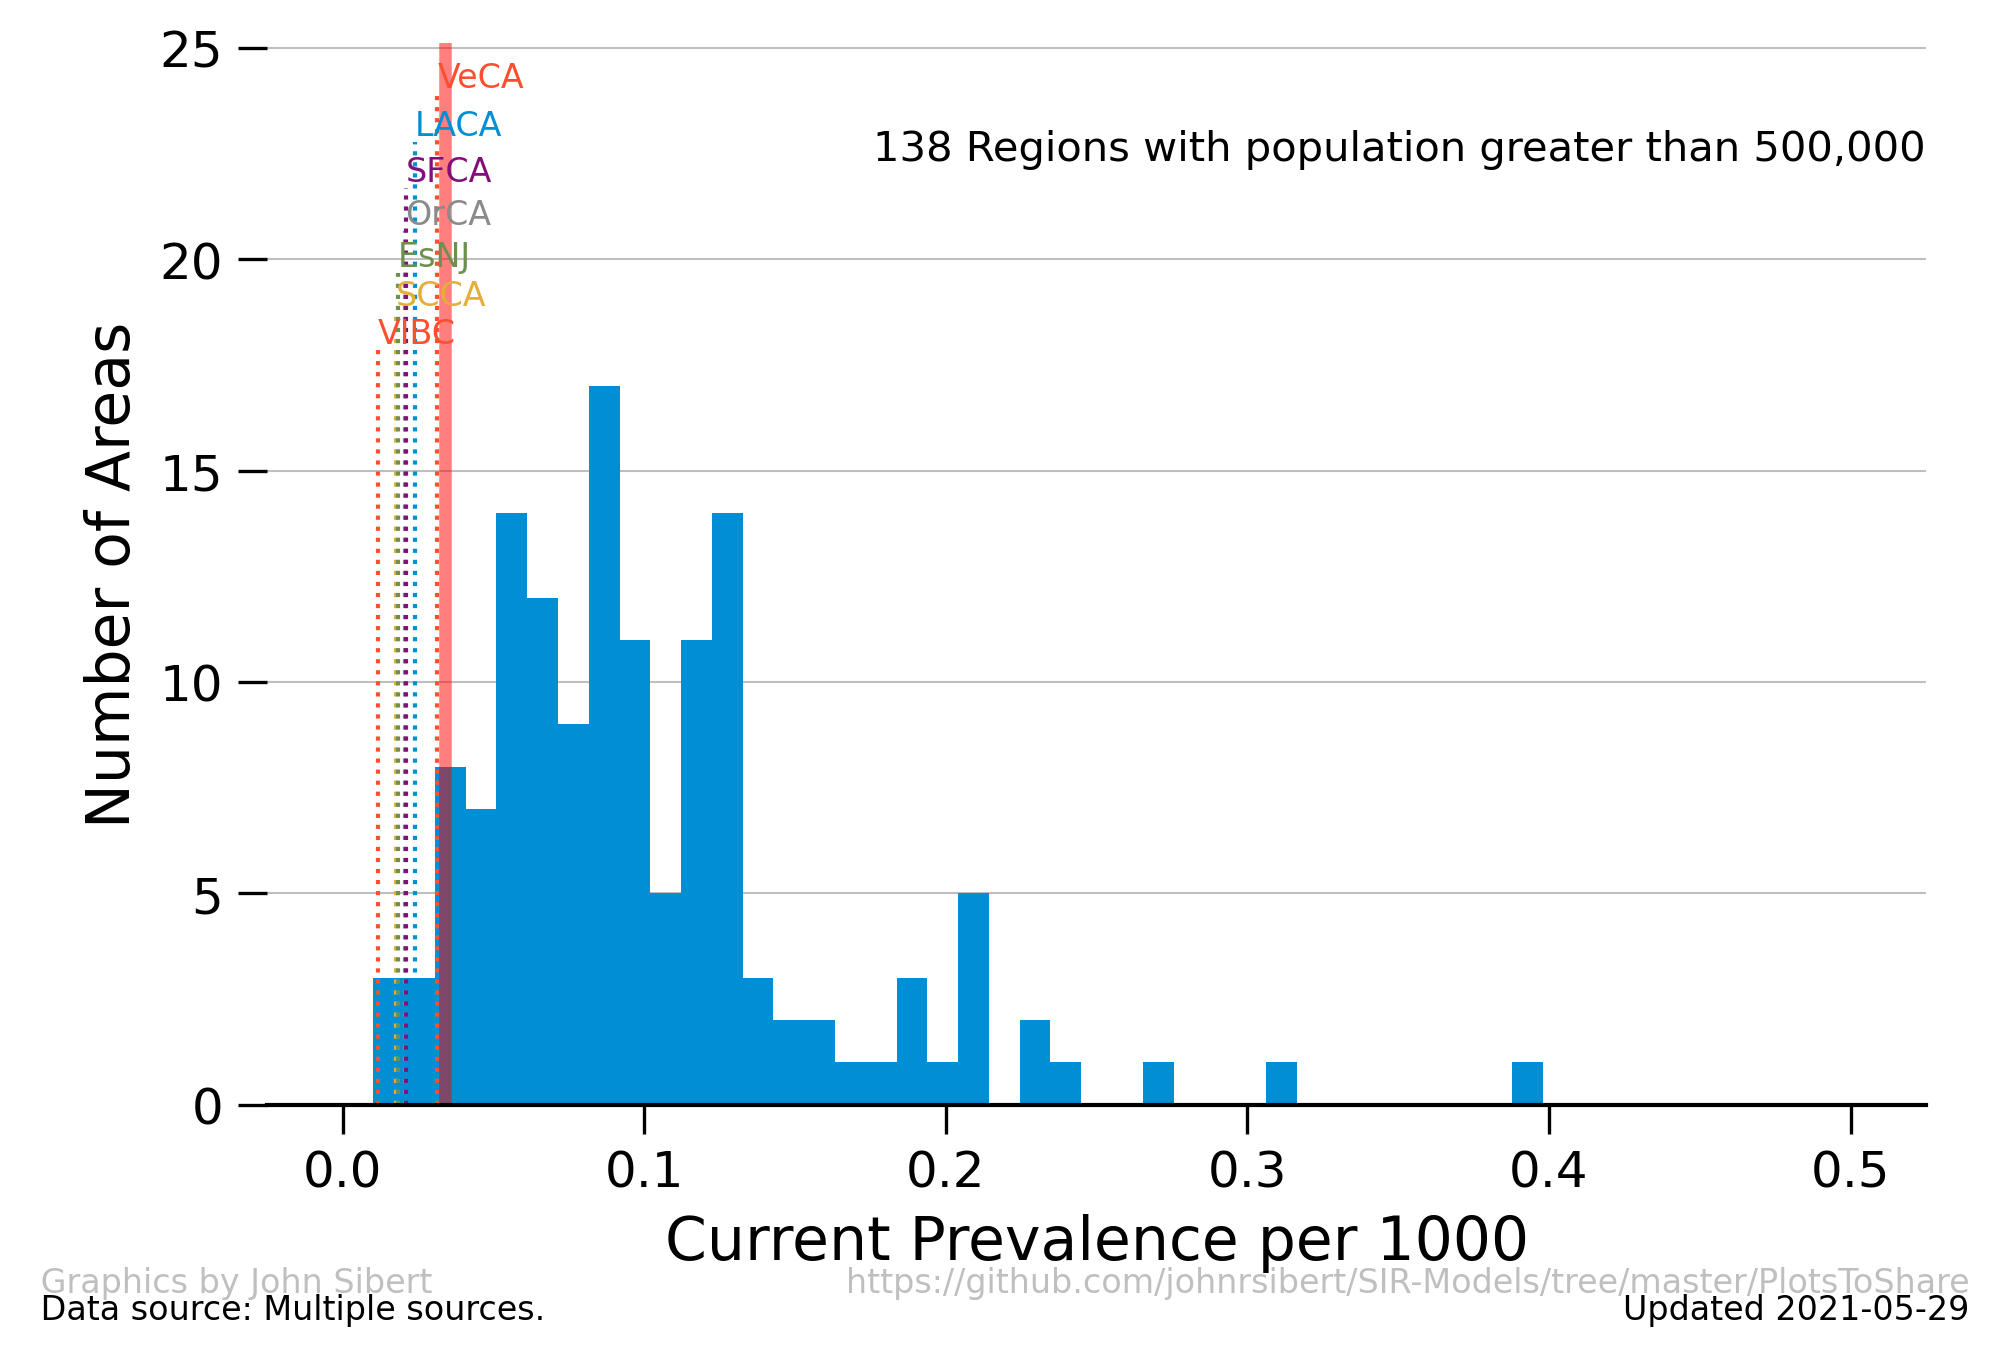
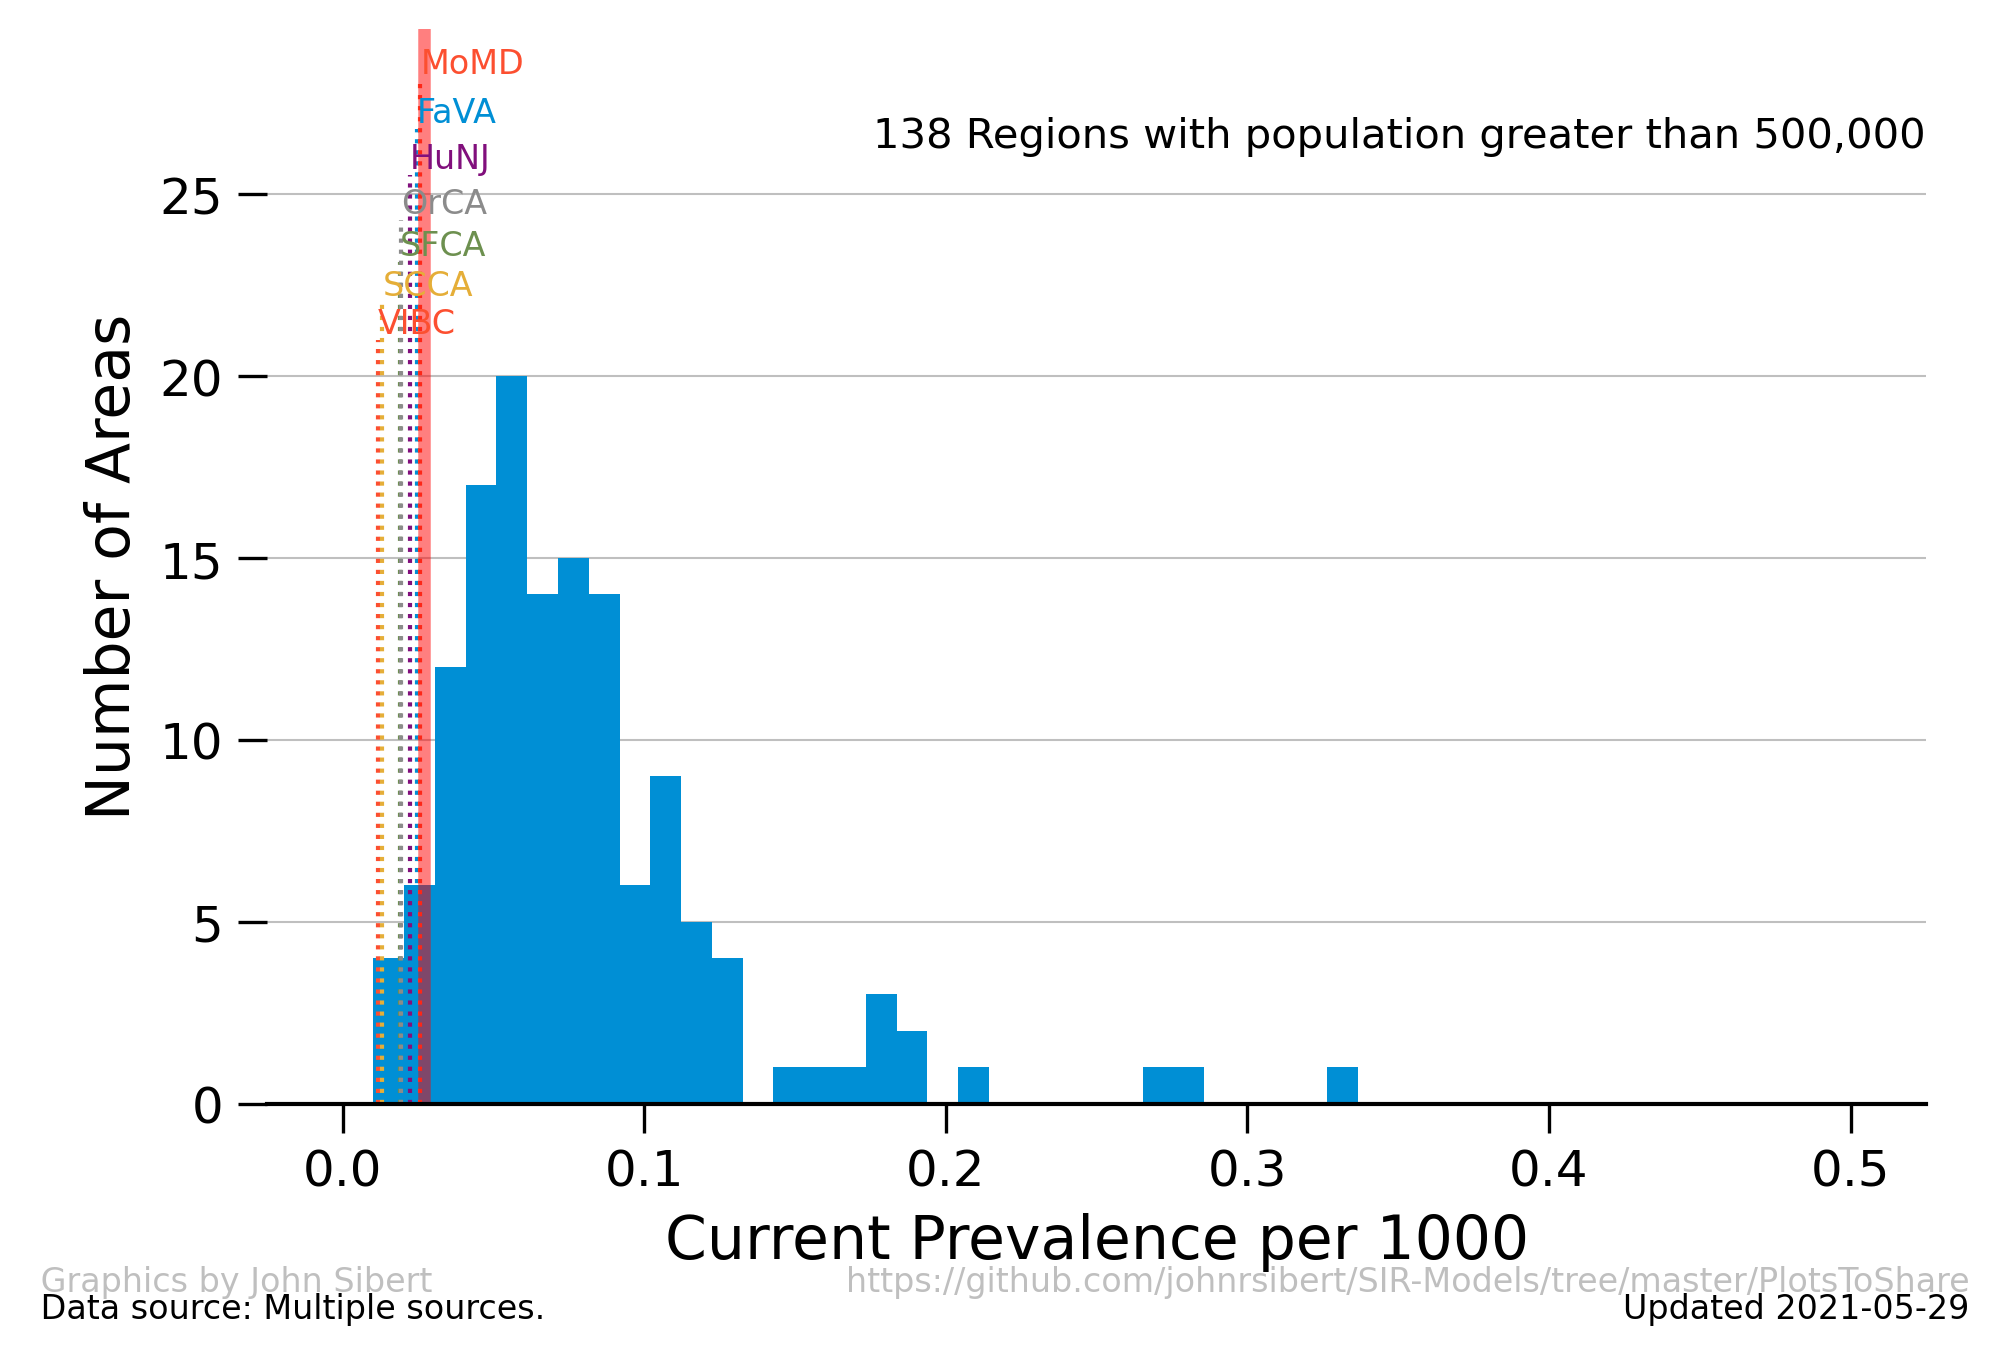
correct assets plots

diff --git a/python/covid21/Geography.py b/python/covid21/Geography.py
@@ -640,21 +640,21 @@ def plot_prevalence_comp_histo(flag=None,per_capita=True, mult = 1000, delta_ts=
     <p class="date">Updated 2020-05-01</p>
     """
 
-    with open(file+'.html','w') as hh:
-    #   hh.write('<style> p.date { text-align: right; font-size:10px; } </style>')
-
+    with open(cv.assets_path+file+'.html','w') as hh:
+        tab = pd.DataFrame(columns=table.columns,dtype='object')
         nreg=10
-        tab = pd.DataFrame(table.head(nreg))
-    #   tab = tab.append(['...','...','...'])
-        tab = tab.append(table.tail(nreg))
+        tab = tab.append(table.head(nreg),ignore_index=True)
+        tab = tab.append(pd.Series(['...']*3,index=table.columns),ignore_index=True)
+        tab = tab.append(table.tail(nreg),ignore_index=True)
+
         hh.write(tabulate(tab,headers=['Rank','Region','Prevalence'],tablefmt='html',
                           numalign="right", floatfmt=".3f",
                           stralign='left', showindex=False))
+        print('tab:',tab) 
 
         mtime = os.path.getmtime(cv.NYT_home+'us-counties.csv')
         dtime = datetime.fromtimestamp(mtime)
 
-    #   hh.write('<p </p> <p class="date">Updated '+str(dtime.date())+'</p>')
         hh.write('Updated '+str(dtime.date()))
     
     #print(tabulate(recent,tablefmt='html'))
@@ -712,9 +712,7 @@ def plot_prevalence_comp_histo(flag=None,per_capita=True, mult = 1000, delta_ts=
 #   fig, ax = plt.subplots(1,figsize=(6.5,4.5))
 #   ax.scatter(recent['population'],recent['cases'])
 #   plt.show()
-
-
- 
+    return(pq)
    
 def short_name(s):
     """

diff --git a/python/cv21.py b/python/cv21.py
@@ -308,6 +308,10 @@ def update_fits(njob=4):
     print('current',os.getcwd())
 
 def update_shared_plots():
+    quartiles = GG.plot_prevalence_comp_histo(flag='500000',window=14,save=True, 
+                                              signature=True)
+    print('precalence quartiles:',quartiles)
+
     nyt_counties = pd.read_csv(cv.GeoIndexPath,header=0,comment='#')
     gg_filter = nyt_counties['flag'].str.contains('s')
 #   print(gg_filter)
@@ -327,14 +331,13 @@ def update_shared_plots():
 
 #       tmpG.read_nyt_data('county')
         tmpG.plot_prevalence(save=True,signature=True,cumulative=False,
-                             show_order_date=False,per_capita=True)
+                             show_order_date=False,per_capita=True,quartiles=quartiles)
 
 #   tmpG = GG.Geography(name='Vancouver Island',enclosed_by='British Columbia',code='BC')
 #   tmpG.read_BCHA_data()
 #   tmpG.plot_prevalence(save=True,signature=True,cumulative=False,
 #                        show_order_date=False)
 
-    GG.plot_prevalence_comp_histo(flag='500000',window=14,save=True, signature=True)
 
     cv.graphics_path = save_path
 
@@ -897,5 +900,5 @@ print('matplotib:',matplotlib.__version__)
 
 
 #GG.plot_prevalence_comp_TS(flag='m',save=True, signature=True)
-#GG.plot_prevalence_comp_histo(flag='500000',window=14,save=True, signature=True)
+GG.plot_prevalence_comp_histo(flag='500000',window=14,save=True, signature=True)
 

diff --git a/python/covid21/CFR.py b/python/covid21/CFR.py
@@ -209,12 +209,12 @@ def plot_recent_CFR(save = False):
 #   print('meanlog =',meanlog)
     std = np.std(dat['cfr'])
     print('mean, std:', mean, std)
-#   median = np.median(dat['cfr'])+hb
+    median = np.median(dat['cfr'])+hb
     Q95 = np.quantile(dat['cfr'],q=0.975)+hb
     mode = bins[pd.Series(pdf).idxmax()]+hb
     ylim = ax.get_ylim()
     ylim = (ylim[0],0.95*ylim[1])
-#   vline(ax,median,'Median',ylim=ylim,pos='left')
+    vline(ax,median,'Median',ylim=ylim,pos='right')
     note = ' Mean\n {: .4f}'.format(mean)
     vline(ax,mean,note,pos='left')
    
